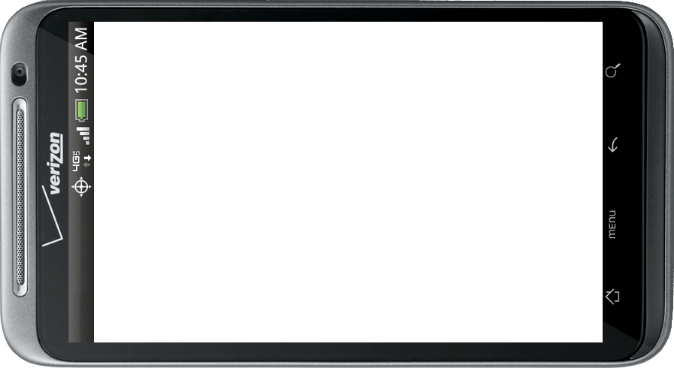
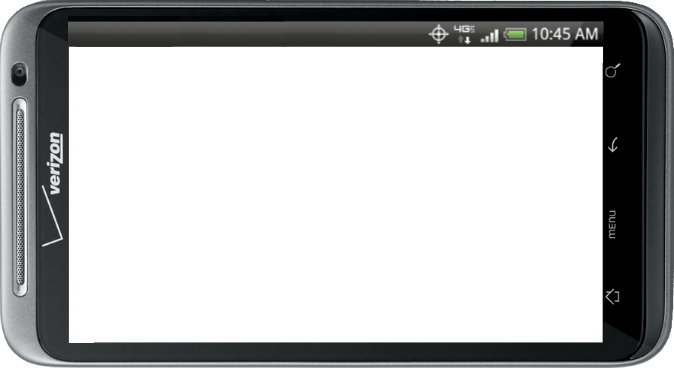
fixed landscape on the android

Changed region(s): [[0.0935, 0.0598, 0.9036, 0.9565]]

diff --git a/closephoto/emulator/emu.css b/closephoto/emulator/emu.css
@@ -7,14 +7,23 @@ body { background-color: #222; }
 #controls #views button { padding-right: 12px; padding-left: 2px; }
 #controls #views .ui-icon { right:-1px; }
 
+/*
+iphone 4:
+	landscape: 480x251
+	portait: 320x411
+
+android: 
+	landscape; 533x295
+	portrait: 320x508
+*/
 #phone { display: inline-block; text-align: left; position: relative;}
 #phone.android { padding-top: 0px; padding-left: 0px; }
 #phone.android.portrait { 
-    width: 368px; height: 674; 
+    width: 368px; height: 674px; 
     background-image:url('images/thunderbolt-stencil.png');
 }
 #phone.android.landscape { 
-    height: 368px; width: 674; 
+    height: 368px; width: 674px; 
     background-image:url('images/thunderbolt-stencil-landscape.png');
 }
 
@@ -24,7 +33,7 @@ body { background-color: #222; }
 #phone.android.portrait .actions { width: 320px; height: 20px; left: 25px; position: absolute; }
 #phone.android.portrait .actions .back { width: 24px; height: 20px; display: block; left: 184px; position: absolute;}
 
-#phone.android.landscape iframe { width: 508px; height: 320px; margin-top: 22px; margin-left: 94px;}
+#phone.android.landscape iframe { width: 533px; height: 295px; margin-top: 46px; margin-left: 68px}
 #phone.android.landscape .actions { width: 20px; height: 320px; left: 603px; top: 21px; position: absolute; }
 #phone.android.landscape .actions .back { width: 24px; height: 20px; display: block; left: 0px; top: 112px; position: absolute;}
 
